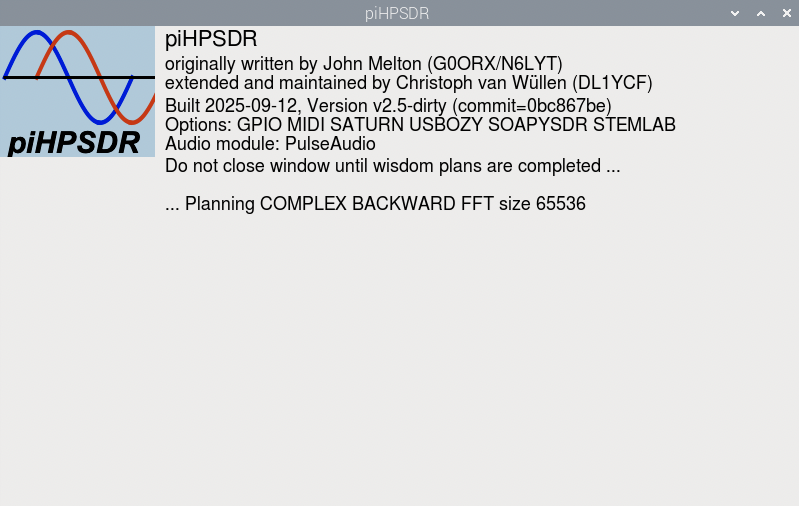
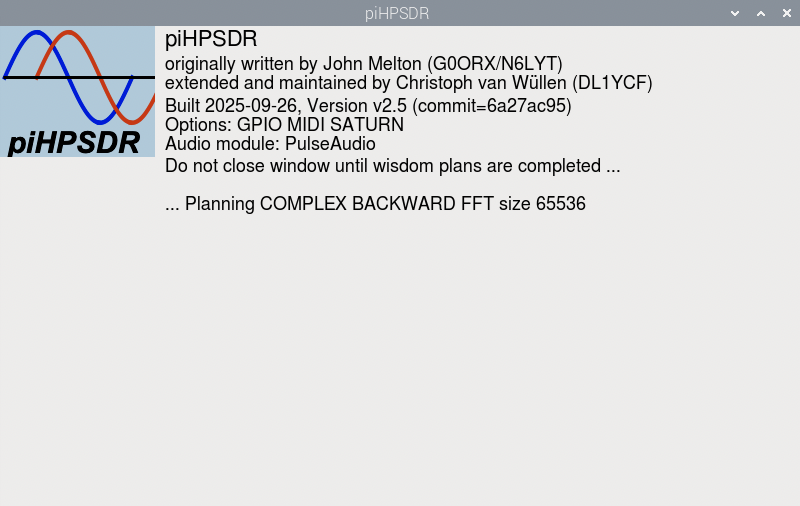
cosmetic updates

diff --git a/src/hpsdrsim.c b/src/hpsdrsim.c
@@ -723,7 +723,9 @@ int main(int argc, char *argv[]) {
       continue;
     }
 
-    if (bytes_read <= 0) { continue; }
+    if (bytes_read < 0) {
+      continue;
+    }
 
     count = 0;
     code = *code0;
@@ -871,6 +873,11 @@ int main(int argc, char *argv[]) {
 
     // respond to an incoming Metis detection request
     case 0x0002feef:
+      // processing an invalid packet is too dangerous -- skip it!
+      if (bytes_read != 63) {
+        t_print("InvalidLength: RvcMsg Code=0x%08x Len=%d\n", code, (int)bytes_read);
+        break;
+      }
       if (oldnew == 2) {
         t_print("OldProtocol detection request from %s IGNORED.\n", inet_ntoa(addr_from.sin_addr));
         break;  // Swallow P1 detection requests
@@ -878,12 +885,6 @@ int main(int argc, char *argv[]) {
 
       t_print( "Respond to an incoming Metis detection request from %s / code: 0x%08x\n", inet_ntoa(addr_from.sin_addr),
                code);
-
-      // processing an invalid packet is too dangerous -- skip it!
-      if (bytes_read != 63) {
-        t_print("InvalidLength: RvcMsg Code=0x%08x Len=%d\n", code, (int)bytes_read);
-        break;
-      }
 
       memset(buffer, 0, 60);
       buffer[0] = 0xEF;
@@ -933,13 +934,12 @@ int main(int argc, char *argv[]) {
 
     // stop the SDR to PC transmission via handler_ep6
     case 0x0004feef:
-      t_print( "STOP the transmission via handler_ep6 / code: 0x%08x\n", code);
-
       // processing an invalid packet is too dangerous -- skip it!
       if (bytes_read != 64) {
         t_print("InvalidLength: RvcMsg Code=0x%08x Len=%d\n", code, bytes_read);
         break;
       }
+      t_print( "STOP the transmission via handler_ep6 / code: 0x%08x\n", code);
 
       enable_thread = 0;
 
@@ -957,14 +957,14 @@ int main(int argc, char *argv[]) {
     case 0x0104feef:
     case 0x0204feef:
     case 0x0304feef:
-      if (new_protocol_running()) {
-        t_print("OldProtocol START command received but NewProtocol radio already running!\n");
-        break;
-      }
-
       // processing an invalid packet is too dangerous -- skip it!
       if (bytes_read != 64) {
         t_print("InvalidLength: RvcMsg Code=0x%08x Len=%d\n", code, bytes_read);
+        break;
+      }
+
+      if (new_protocol_running()) {
+        t_print("OldProtocol START command received but NewProtocol radio already running!\n");
         break;
       }
 
@@ -1054,7 +1054,10 @@ int main(int argc, char *argv[]) {
         break;
       }
 
-      if (code == 0 && buffer[4] == 0x02) {
+      //
+      // P2 discovery packet: 60 bytes starting with 00 00 00 00 02
+      //
+      if (bytes_read == 60 && code == 0 && buffer[4] == 0x02) {
         if (oldnew == 1) {
           t_print("NewProtocol discovery packet from %s IGNORED.\n", inet_ntoa(addr_from.sin_addr));
           break;
@@ -1086,7 +1089,7 @@ int main(int argc, char *argv[]) {
         break;
       }
 
-      if (code == 0 && buffer[4] == 0x04) {
+      if (bytes_read == 60 && code == 0 && buffer[4] == 0x04) {
         if (oldnew == 1) {
           t_print("NewProtocol erase packet IGNORED.\n");
           break;
@@ -1113,6 +1116,9 @@ int main(int argc, char *argv[]) {
         break;
       }
 
+      //
+      // P2 program packet: 265 bytes starting with xx xx xx xx 05
+      //
       if (bytes_read == 265 && buffer[4] == 0x05) {
         if (oldnew == 1) {
           t_print("NewProtocol program packet IGNORED.\n");
@@ -1147,6 +1153,9 @@ int main(int argc, char *argv[]) {
         break;
       }
 
+      //
+      // P2 SetIP packet: 60 bytes starting with 00 00 00 00 06
+      //
       if (bytes_read == 60 && code == 0 && buffer[4] == 0x06) {
         if (oldnew == 1) {
           t_print("NewProtocol SetIP packet IGNORED.\n");
@@ -1188,7 +1197,10 @@ int main(int argc, char *argv[]) {
         break;
       }
 
-      if (bytes_read == 60 && buffer[4] == 0x00) {
+      //
+      // P2 General packet: 60 bytes starting with 00 00 00 00 00
+      //
+      if (bytes_read == 60 && code == 0 && buffer[4] == 0x00) {
         if (oldnew == 1) {
           t_print("NewProtocol General packet IGNORED.\n");
           break;
@@ -1201,14 +1213,18 @@ int main(int argc, char *argv[]) {
         addr_new.sin_port = addr_from.sin_port;
         new_protocol_general_packet(buffer);
         break;
-      } else {
-        t_print("Invalid packet (len=%d) detected: ", bytes_read);
-
-        for (i = 0; i < 16; i++) { printf("%02x ", buffer[i]); }
-
-        printf("\n");
       }
 
+      //
+      // Packet form not known
+      //
+      t_print("Invalid packet (len=%d) detected: ", bytes_read);
+
+      if (bytes_read > 16) { bytes_read = 16; }
+      for (i = 0; i < bytes_read; i++) {
+        printf("%02x ", buffer[i]);
+      }
+      printf("\n");
       break;
     }
   }

diff --git a/release/LatexManual/piHPSDR-Manual.tex b/release/LatexManual/piHPSDR-Manual.tex
@@ -37,7 +37,7 @@ email: \texttt{dl1ycf@darc.de}
 Copyright (C) 2023--2025 Christoph van W\"ullen, DL1YCF.
 
 This work is licensed under
-the Creative Commons licence CC BY-SA, version 4 or later, so it can be freely distributed.
+the Creative Commons license CC BY-SA, version 4 or later, so it can be freely distributed.
 This license also allows re-users to distribute, modify and build upon the material in any medium or format,
 as long as attribution is given to the creator. The license allows for commercial use.
 If you modify or build upon the material, you must license the modified material under identical terms.
@@ -169,6 +169,8 @@ capability if compiled on MacOS.}
 \item{Option to have an SWR-dependent side tone while TUNE-ing.}
 \item{ZOOM now up to 32x}
 \item{User-configurable Slider and Toolbar areas, with 0--3 slider rows and 0--3 toolbars.}
+\item{Added local replay of captured audio data (\bltt{Replay} command) -- useful to check
+captured audio data before transmitting it.}
 \end{itemize}
 
 \medskip
@@ -215,7 +217,8 @@ The last synchronisation with John Melton's (G0ORX) \pH version 2.0.8 took place
 \chapter{Starting \pH for the first time}
 \section{First invocation of \pH}
 Let us assume you have an SDR (say, an Anan-7000 or a HermesLite-II) powered up and connected to an antenna,
-and you have \pH installed on a computer (say, a Raspberry Pi or an Apple Macintosh), the first thing to
+and you have \pH installed on a computer (say, a Raspberry Pi or an Apple Macintosh).
+The first thing to
 do is to establish a proper connection between the computer and the radio. Although advocated at many
 places,
 I do highly recommend against a WiFi connection. WiFi routers often use optimisations where they hold
@@ -239,9 +242,10 @@ into the RJ45 jacks of the computer and of the radio (see Appendix
 If the \pH program is started for the first time, it opens a window that looks like Fig. \ref{fig:Planning}.
 Besides stating a version number and the date \pH was built, the list of optional features is
 documented (compile-time options,
-in this case  GPIO, MIDI, SATURN) as well as the audio module used (here: ALSA) for attaching headphones
-or microphones to the host computer running \pH. Information about compile-time options and the
-audio modules available are given in Appendix \ref{sec:compiletime}.
+in this case  GPIO, MIDI, SATURN) as well as the audio module used (here: PulseAudio) for attaching headphones
+or microphones to the host computer running \pH. Information about  compile-time options and how to add
+or remove them, and on the available audio modules,
+are given in Appendix \ref{sec:compiletime}.
 
 What is important here that you have to wait. This only applies to the very first time you start \pH.
 On CPUs with a rather simple instruction set (like the ARM processor in the Raspberry Pi, or the Apple
@@ -249,11 +253,11 @@ Silicon processor in recent Macintosh computers), this so-called  \textit{planni
 example, on my
 Apple M2 Mac mini, this step only takes 6 seconds, and you have to wait for 34 seconds on a RaspberryPi 4.
 On the contrary, on CPUs with
-complex instruction sets, more planning is necessary: on my other Mac mini with a 3 GHz x86 processor, it
+complex instruction sets, more planning is necessary: on a Mac mini with a 3 GHz x86 processor, it
 takes 16 minutes! But note
 this has only to be done once, in subsequent starts of \pH, the wisdom will simply be read from
 the file created during the \textit{planning}. These plans contain, for a large number of dimensions,
-the fastest way to perform FFTs (\textit{fast Fourier transformations}) on the given CPU.
+the fastest way to perform fast Fourier transformations (FFTs) on the given CPU.
 When this ,,wisdom'' is secured, \pH tries to detect a radio on the network. If everything went well with
 the network connection, you then see a screen with a discovery menu (Fig. \ref{fig:Start}).
 
@@ -4670,7 +4674,7 @@ the pan adapter in the main window (waterfall-only setups won't show the record/
 In the normal ,,idle'' situation, nothing is shown on the pan adapter. This is the case if the \bltt{Capture}
 or \bltt{Replay} buttons have not yet been used since the start of the \pH program,
  or if the last recording, transmit or playback ended
-more then 30 seconds ago. If noting is on the screen, one has to push the \bltt{Capture} 
+more then 30 seconds ago. If noting is on the screen, one has to push the \bltt{Capture}
 or \bltt{Replay} button once and
 a string \rett{Available} string in yellow colour will appear in the top right corner of the pan adapter,
 and below a horizontal progress bar that indicates how long the actual recording is: a full bar corresponds

diff --git a/src/new_discovery.c b/src/new_discovery.c
@@ -107,7 +107,6 @@ static void new_discover(struct ifaddrs* iface, int discflag) {
   struct sockaddr_in *mask;
   unsigned char buffer[60];
   struct sockaddr_in to_addr = {0};
-  int i;
 
   switch (discflag) {
   case 1:
@@ -197,7 +196,7 @@ static void new_discover(struct ifaddrs* iface, int discflag) {
   buffer[3] = 0x00;
   buffer[4] = 0x02;
 
-  for (i = 5; i < 60; i++) {
+  for (int i = 5; i < 60; i++) {
     buffer[i] = 0x00;
   }
 

diff --git a/src/old_discovery.c b/src/old_discovery.c
@@ -66,7 +66,7 @@ static void discover(struct ifaddrs* iface, int discflag) {
   socklen_t optlen;
   fd_set fds;
   unsigned char buffer[1032];
-  int i, len;
+  int len;
 
   switch (discflag) {
   case 1:
@@ -254,7 +254,7 @@ static void discover(struct ifaddrs* iface, int discflag) {
   buffer[1] = 0xFE;
   buffer[2] = 0x02;
 
-  for (i = 3; i < len; i++) {
+  for (int i = 3; i < len; i++) {
     buffer[i] = 0x00;
   }
 
